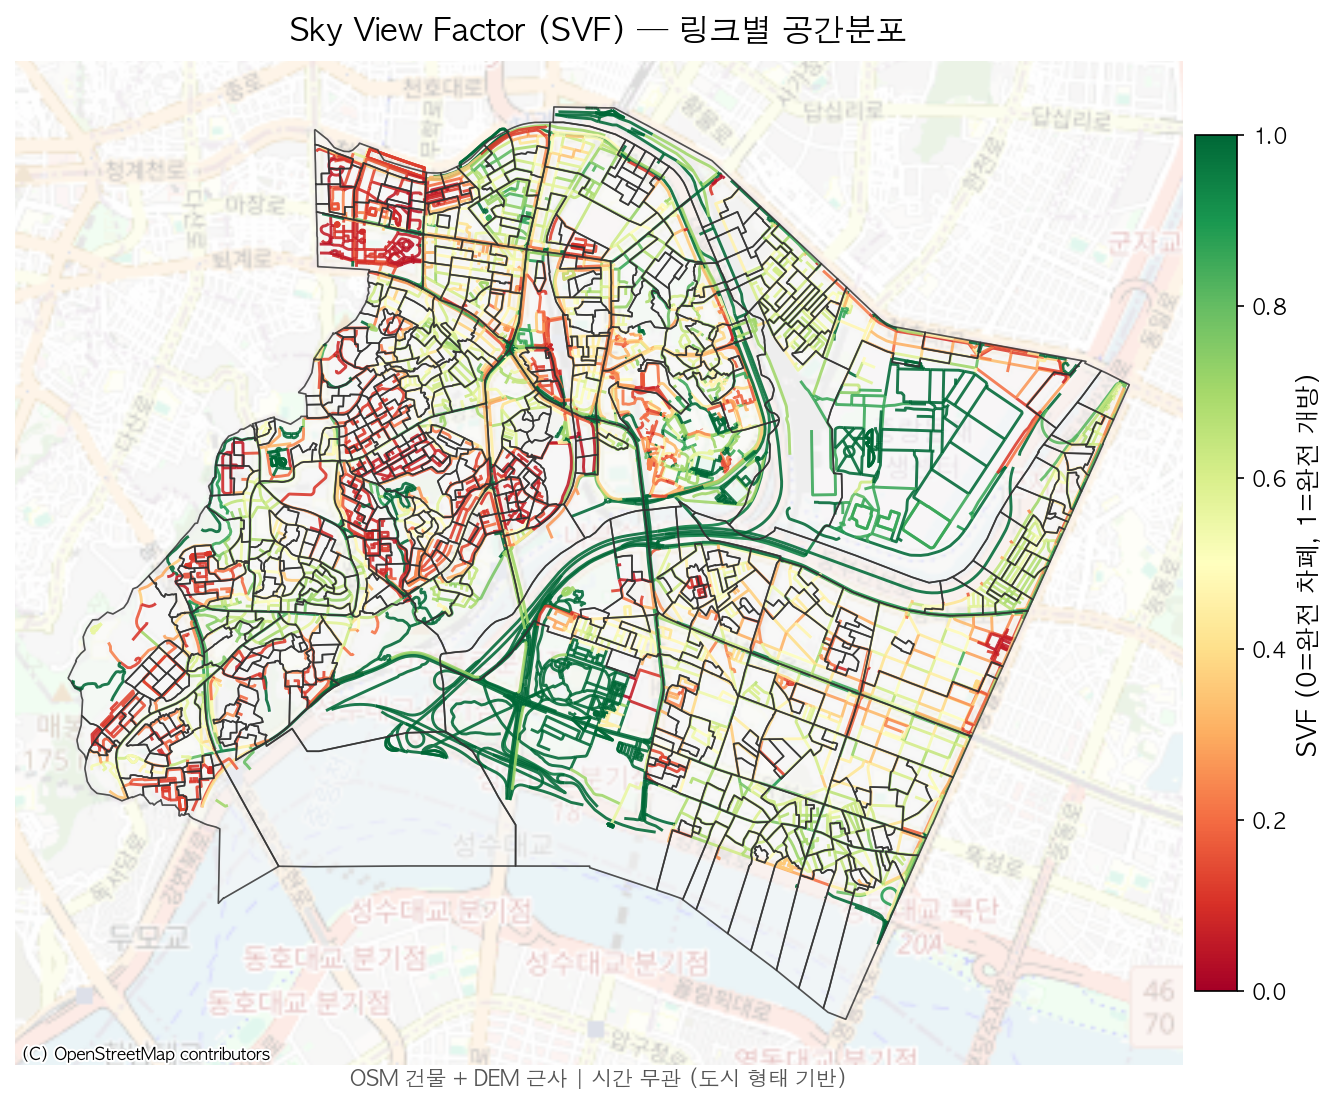
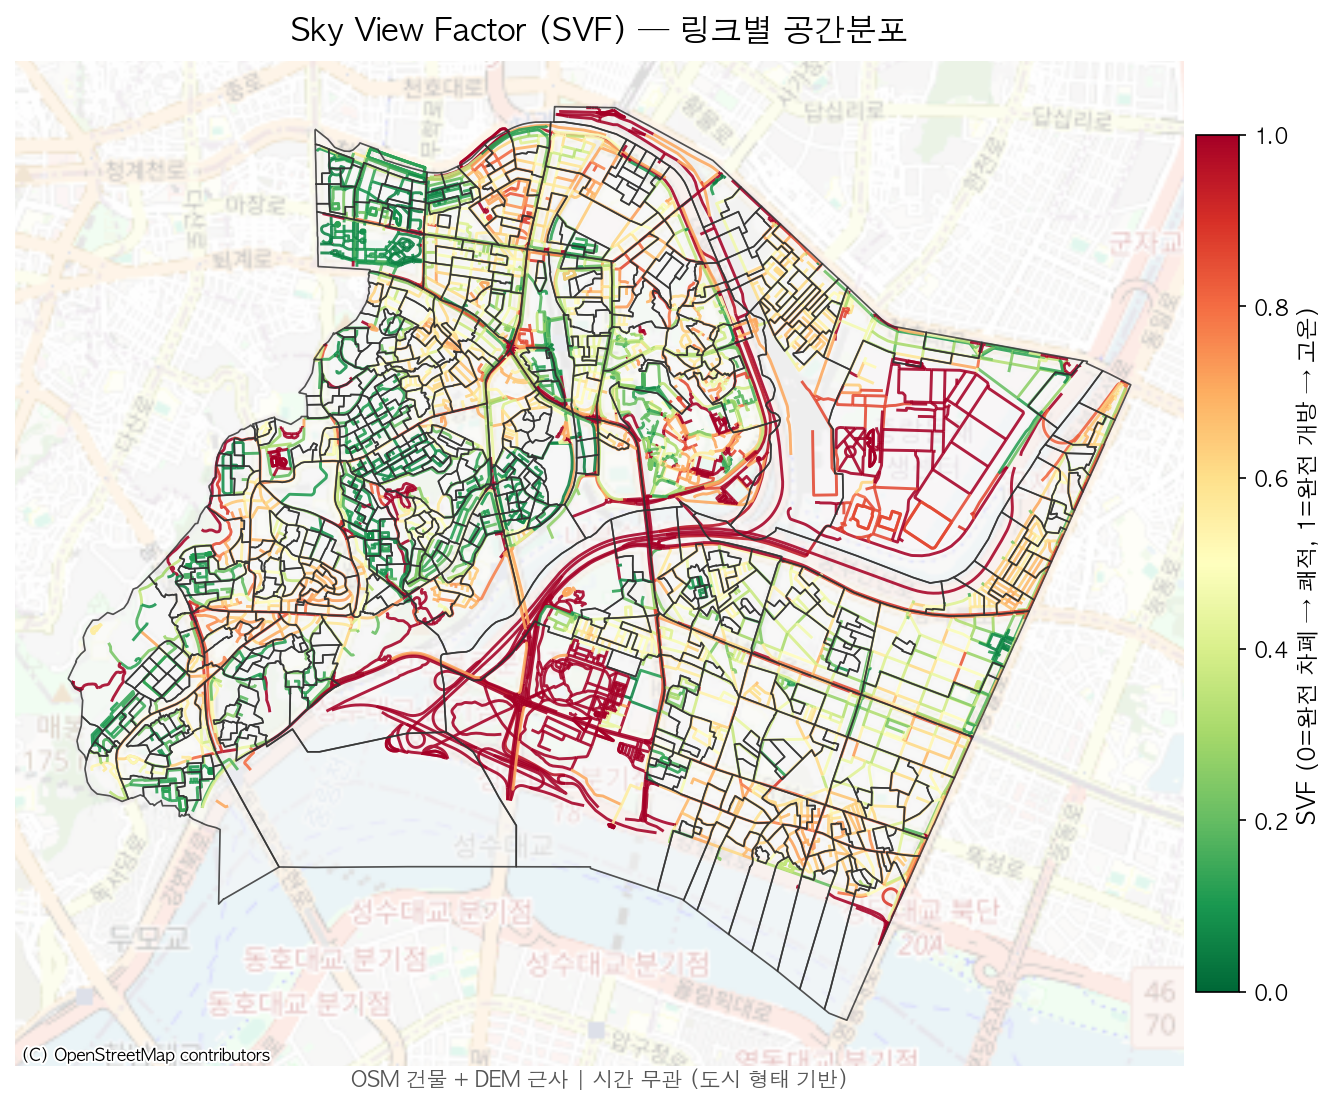
Fix: SVF 지도 컬러맵 반전 (고온=빨강, 차폐=초록)

diff --git a/Thermal_Catchment/02_코드/46_professor_maps.py b/Thermal_Catchment/02_코드/46_professor_maps.py
@@ -191,8 +191,8 @@ svf_e = merge_to_edges(svf_df, 'svf')
 draw_map(svf_e, 'svf',
          title='Sky View Factor (SVF) — 링크별 공간분포',
          subtitle='OSM 건물 + DEM 근사 | 시간 무관 (도시 형태 기반)',
-         cmap_name='RdYlGn', vmin=0, vmax=1, unit='',
-         cbar_label='SVF (0=완전 차폐, 1=완전 개방)',
+         cmap_name='RdYlGn_r', vmin=0, vmax=1, unit='',
+         cbar_label='SVF (0=완전 차폐 → 쾌적, 1=완전 개방 → 고온)',
          fname='05_SVF.png')
 
 # 06 MRT
